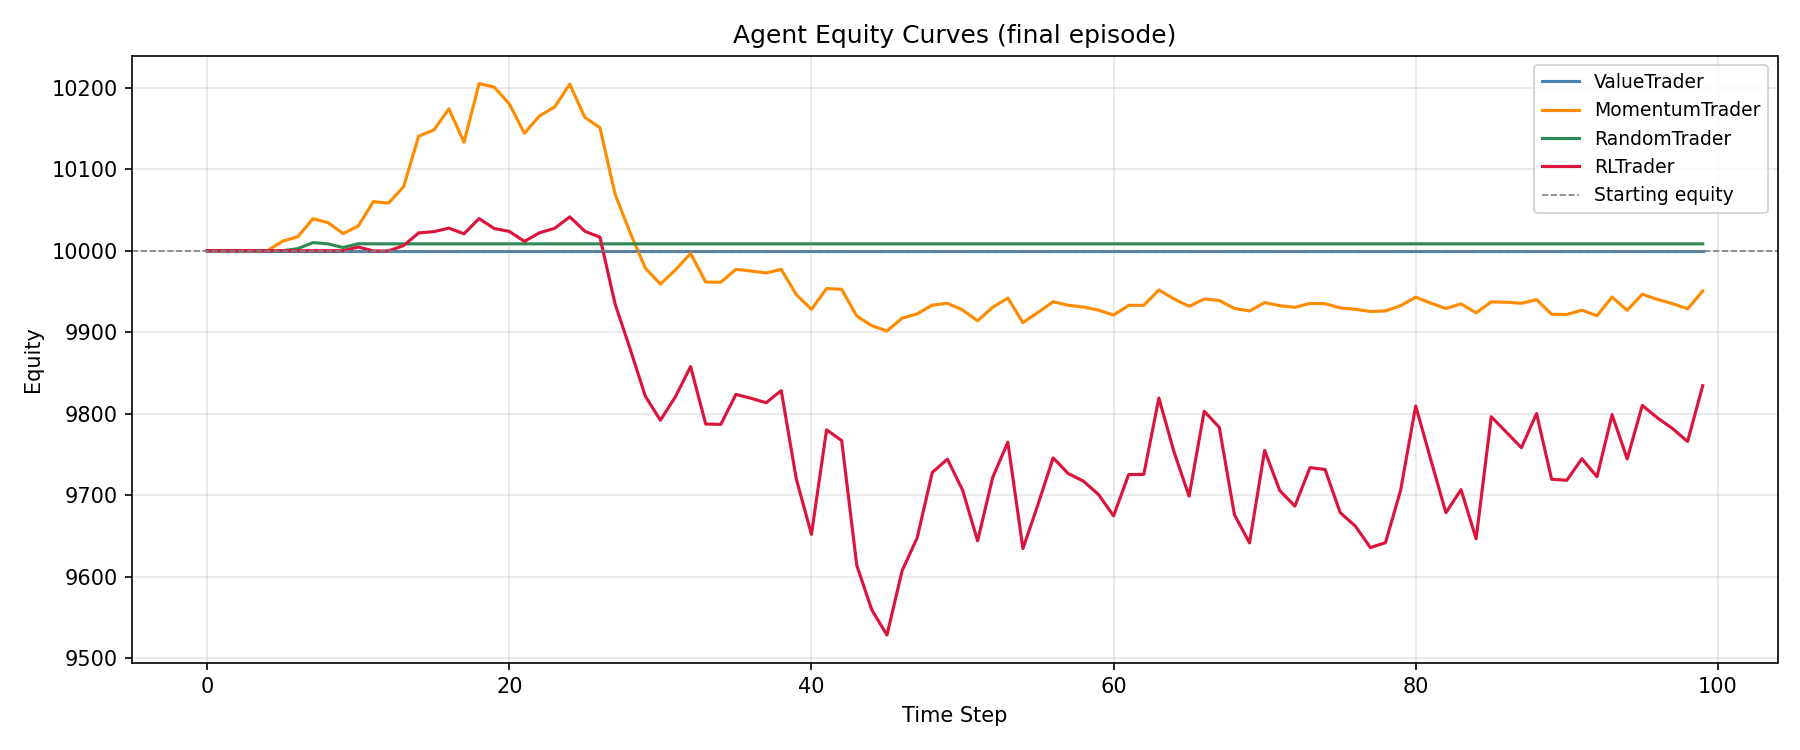
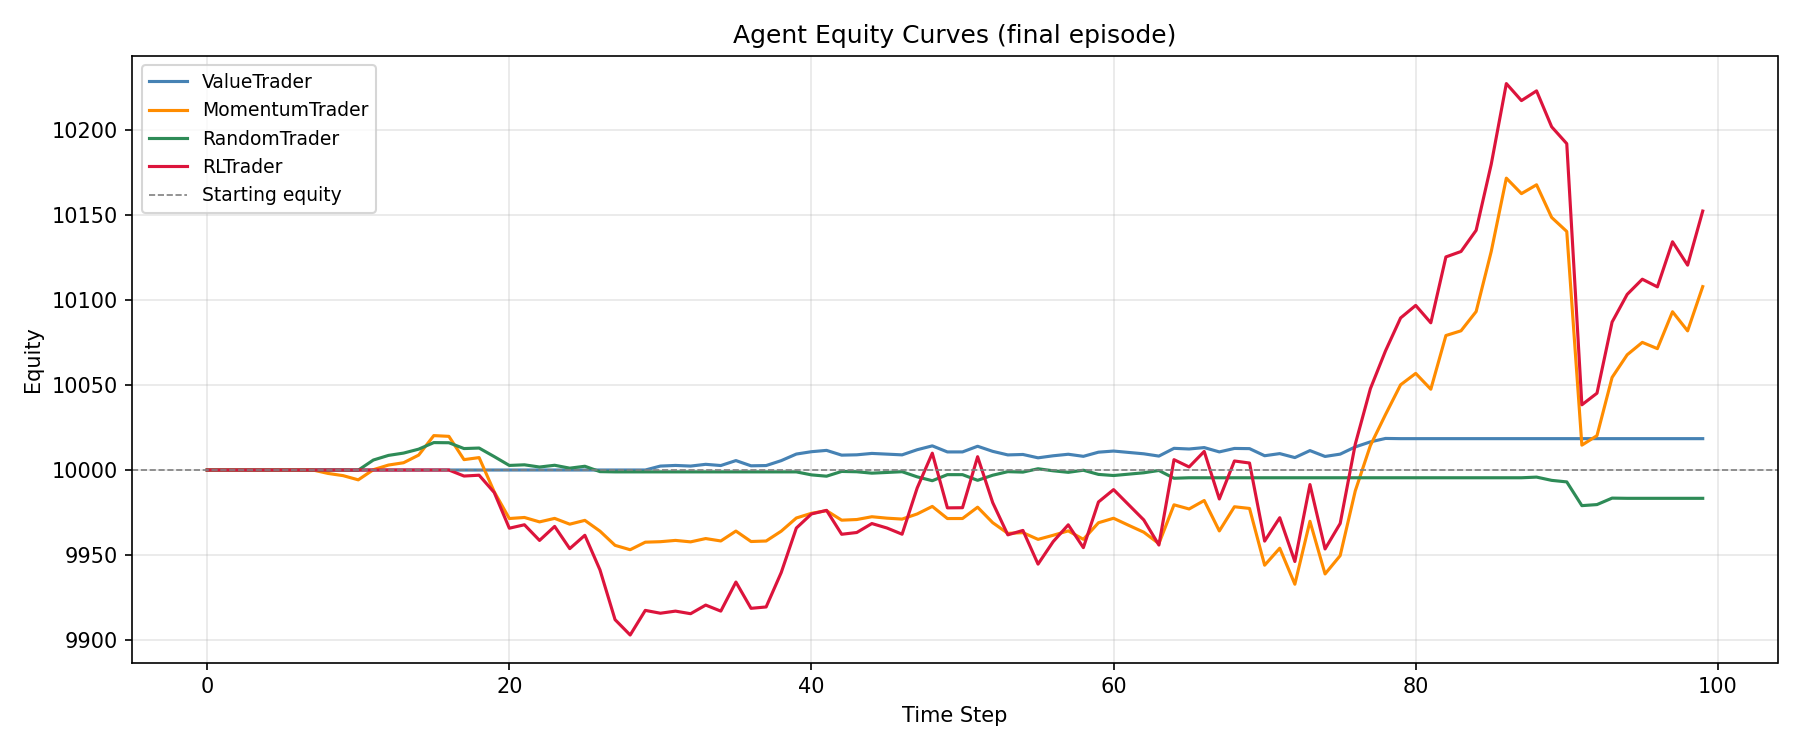
Improve trading agent by upgrading to a dueling deep Q-network
Replace the existing QNetwork class with a DuelingQNetwork architecture in `rl_agent.py` and update network instantiation in `__init__`.

Replit-Commit-Author: Agent
Replit-Commit-Session-Id: 3826bf3c-e3fd-4317-b321-61e418fea702
Replit-Commit-Checkpoint-Type: full_checkpoint
Replit-Commit-Event-Id: 532116c5-e49d-4e21-b4e3-4defbe5b34d3
Replit-Helium-Checkpoint-Created: true

diff --git a/project/agents/rl_agent.py b/project/agents/rl_agent.py
@@ -8,32 +8,59 @@ from agents.trader_agent import TraderAgent
 
 
 # ---------------------------------------------------------------------------
-# Q-Network: small two-hidden-layer MLP
+# Dueling Q-Network
 # ---------------------------------------------------------------------------
 
-class QNetwork(nn.Module):
+class DuelingQNetwork(nn.Module):
     """
-    Feedforward network mapping state features → Q-values for each action.
+    Dueling DQN architecture: shared feature extractor splits into a Value
+    stream V(s) and an Advantage stream A(s, a), recombined as:
 
-    Architecture: Linear(input_dim, 64) → ReLU → Linear(64, 64) → ReLU
-                  → Linear(64, output_dim)
+        Q(s, a) = V(s) + A(s, a) − mean_a A(s, a)
 
-    output_dim == number of actions; the caller indexes into the output to
-    obtain Q(s, a) for a specific action.
+    Subtracting the mean advantage centres A around zero and removes the
+    ambiguity between V and A (identifiability).  The result is more stable
+    training: V learns the general worth of a state independently from A,
+    which only needs to capture relative action quality.
+
+    Architecture
+    ------------
+    Shared:    Linear(input_dim, 64) → ReLU → Linear(64, 64) → ReLU
+    Value:     Linear(64, 32) → ReLU → Linear(32, 1)
+    Advantage: Linear(64, 32) → ReLU → Linear(32, output_dim)
     """
 
     def __init__(self, input_dim, output_dim):
         super().__init__()
-        self.net = nn.Sequential(
+
+        # Shared feature extractor
+        self.feature = nn.Sequential(
             nn.Linear(input_dim, 64),
             nn.ReLU(),
             nn.Linear(64, 64),
             nn.ReLU(),
-            nn.Linear(64, output_dim),
+        )
+
+        # Value stream V(s) — scalar per state
+        self.value = nn.Sequential(
+            nn.Linear(64, 32),
+            nn.ReLU(),
+            nn.Linear(32, 1),
+        )
+
+        # Advantage stream A(s, a) — one value per action
+        self.advantage = nn.Sequential(
+            nn.Linear(64, 32),
+            nn.ReLU(),
+            nn.Linear(32, output_dim),
         )
 
     def forward(self, x):
-        return self.net(x)
+        f = self.feature(x)
+        V = self.value(f)                          # (batch, 1)
+        A = self.advantage(f)                      # (batch, n_actions)
+        A_mean = A.mean(dim=1, keepdim=True)       # (batch, 1)
+        return V + (A - A_mean)                    # (batch, n_actions)
 
 
 # ---------------------------------------------------------------------------
@@ -71,8 +98,8 @@ class ReinforcementLearningTrader(TraderAgent):
         # ---------------------------------------------------------------
         self.device = torch.device("cpu")
 
-        self.q_net = QNetwork(self.feature_dim, len(self.actions)).to(self.device)
-        self.target_q_net = QNetwork(self.feature_dim, len(self.actions)).to(self.device)
+        self.q_net = DuelingQNetwork(self.feature_dim, len(self.actions)).to(self.device)
+        self.target_q_net = DuelingQNetwork(self.feature_dim, len(self.actions)).to(self.device)
         self.target_q_net.load_state_dict(self.q_net.state_dict())
         self.target_q_net.eval()
 
